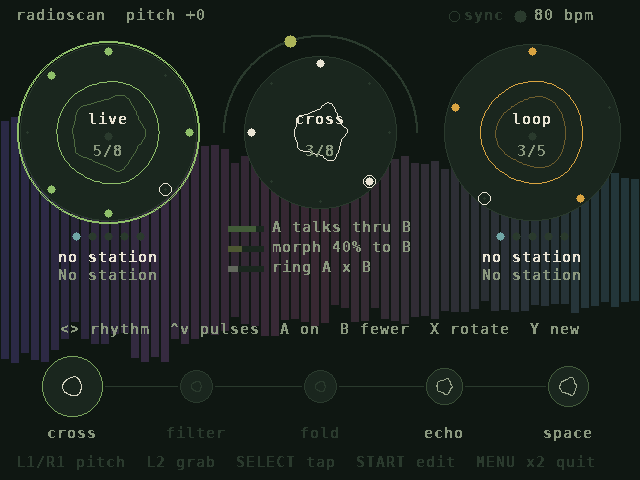
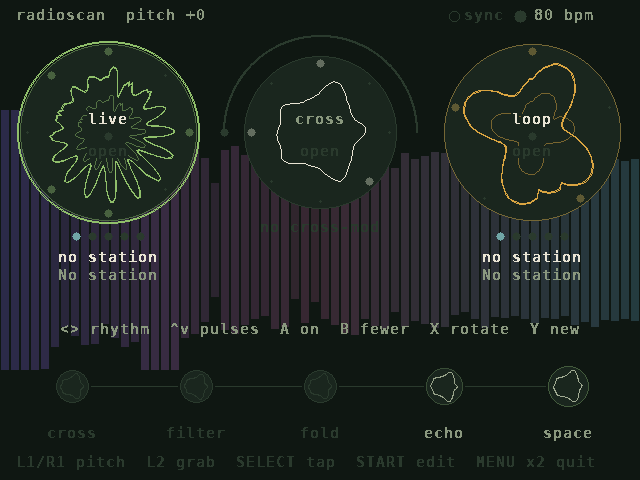
Voice circles show their waveforms as polar oscilloscopes
Claude-Session: https://claude.ai/code/session_01BCwtH7uky1EgFAH9tziGgi

diff --git a/src/main.c b/src/main.c
@@ -1006,8 +1006,60 @@ static void seq_label(int q, char *t, int n)
     else snprintf(t, n, "open");
 }
 
-/* a voice: faint bloom of the raw broadcast inside, bright bloom of the voice as it sounds outside,
- * and its rhythm around the rim */
+/* centred text with a dark outline, so it reads over a busy waveform */
+static void text_halo(int cx, int y, const char *s, Uint32 col)
+{
+    for (int dy = -2; dy <= 2; dy++)
+        for (int dx = -2; dx <= 2; dx++)
+            if (dx || dy) text_center(cx + dx, y + dy, s, C_PANEL, 0);
+    text_center(cx, y, s, col, 0);
+}
+
+/* A waveform wrapped around a circle, like a polar oscilloscope: the line swings out and in with the signal.
+ * It is triggered on a rising zero crossing so it holds still on a steady tone, and scaled to its own recent
+ * peak so even a quiet station swings wide. *env keeps that peak between frames. */
+static void draw_polar_wave(int cx, int cy, float base, float swing, int tap, Uint32 col, int thick, float *env)
+{
+    enum { WN = 2048, SPAN = 1024, PTS = 180 };
+    static float buf[WN];
+    synth_tap_read(syn, tap, buf, WN);
+    int start = WN - SPAN;
+    for (int i = WN - SPAN - 1; i > WN - SPAN - 900; i--) /* the latest rising zero crossing with room after it */
+        if (buf[i - 1] < 0 && buf[i] >= 0) { start = i; break; }
+    float pk = 0;
+    for (int i = 0; i < SPAN; i++) pk = fmaxf(pk, fabsf(buf[start + i]));
+    *env = pk > *env ? pk : *env * 0.93f;
+    float g = 1.0f / fmaxf(*env, 0.01f);
+    if (pk < 0.0005f) g = 0; /* silence: a still circle */
+    float v[PTS];
+    for (int k = 0; k < PTS; k++) { /* average each slice so the line is smooth, not aliased */
+        int a = start + k * SPAN / PTS, b = start + (k + 1) * SPAN / PTS;
+        float sum = 0, mx = 0;
+        for (int i = a; i < b; i++) { sum += buf[i]; if (fabsf(buf[i]) > fabsf(mx)) mx = buf[i]; }
+        v[k] = 0.5f * (sum / (b - a)) + 0.5f * mx; /* keep some of the peaks: it should look lively */
+        v[k] *= g;
+        v[k] = v[k] > 1 ? 1 : v[k] < -1 ? -1 : v[k];
+    }
+    for (int k = 0; k < PTS / 10; k++) { /* close the loop smoothly */
+        float t = (float)k / (PTS / 10);
+        v[PTS - 1 - k] = v[PTS - 1 - k] * t + v[0] * (1 - t);
+    }
+    for (int th = 0; th < thick; th++) {
+        int x0 = 0, y0 = 0, xf = 0, yf = 0;
+        for (int k = 0; k <= PTS; k++) {
+            int x, y;
+            polar(cx, cy, base + th + swing * v[k % PTS], (float)k / PTS, &x, &y);
+            if (k) line(x0, y0, x, y, col);
+            else { xf = x; yf = y; }
+            x0 = x;
+            y0 = y;
+        }
+        (void)xf; (void)yf;
+    }
+}
+
+/* a voice: the raw broadcast's waveform faint inside, the voice as it sounds bright outside, and its rhythm
+ * around the rim */
 static void draw_voice(int o, int cx, int cy, int R)
 {
     Uint32 col = osc_col(o);
@@ -1016,15 +1068,17 @@ static void draw_voice(int o, int cx, int cy, int R)
     disc(cx, cy, R, C_PANEL);
     circle(cx, cy, R, mix_col(C_PANEL2, col, gate * synth_osc_level(syn, o) * 2.0f));
     if (synth_floor(syn) == o) { circle(cx, cy, R + 1, col); circle(cx, cy, R + 2, col); } /* converse: has the floor */
-    draw_bloom(cx, cy, R * 0.26f, R * 0.48f, R * 0.5f, o ? TAP_RAW_B : TAP_RAW_A, mix_col(C_PANEL, col, 0.45f), 0);
-    draw_bloom(cx, cy, R * 0.52f, R * 0.92f, R + 6, o ? TAP_B : TAP_A, col, 0);
+    static float env_raw[2], env_out[2];
+    draw_polar_wave(cx, cy, R * 0.34f, R * 0.14f, o ? TAP_RAW_B : TAP_RAW_A, mix_col(C_PANEL, col, 0.5f), 1, &env_raw[o]);
+    float open = gate > 0.02f ? 0.35f + 0.65f * gate : 0.0f; /* the swing opens and closes with the rhythm */
+    draw_polar_wave(cx, cy, R * 0.58f, R * 0.26f * open, o ? TAP_B : TAP_A, col, 2, &env_out[o]);
     draw_seq_ring(o, cx, cy, R - 7);
     static const char *const mn[] = {"live", "loop", "wave", "grain"};
-    text_center(cx, cy - 20, mn[(int)p[P_A_MODE + o * OSC_STRIDE]], C_TEXT, 0);
-    disc(cx, cy + 4, 4, state_col(o));
     char t[16];
     seq_label(o, t, sizeof t);
-    text_center(cx, cy + 12, t, (int)p[SEQ_PARAM(o, 0)] ? C_DIM : C_PANEL2, 0);
+    text_halo(cx, cy - 20, mn[(int)p[P_A_MODE + o * OSC_STRIDE]], C_TEXT);
+    disc(cx, cy + 4, 4, state_col(o));
+    text_halo(cx, cy + 12, t, (int)p[SEQ_PARAM(o, 0)] ? C_DIM : C_PANEL2);
 }
 
 /* five circles along the chain after the voices; each grows the more it changes the sound */

diff --git a/README.md b/README.md
@@ -54,8 +54,11 @@ a wavefolder, echo and space.
 
 The PLAY page is for performing: the two rhythms and the sound, live.
 
-- **Voice circles (left A, right B).** A faint inner form shows the raw broadcast; a bright outer form shows
-  the voice as it sounds. Five dots underneath show how speech-like the station is.
+- **Voice circles (left A, right B).** Each voice's waveform is wrapped around its circle like a polar
+  oscilloscope, swinging out and in with the signal: faint and small inside for the raw broadcast, bright and wide
+  outside for the voice as it sounds. Each is scaled to its own recent peak, so a quiet station still swings wide,
+  and the outer one opens and closes with the voice's rhythm. Five dots underneath show how speech-like the
+  station is.
 - **Rhythm rings.** Each voice wears its rhythm around its rim: coloured pulses, a white ring on the current step,
   and pulses/steps under the engine name. The cross rhythm circles the centre the same way.
 - **Spectrum backdrop.** A soft frequency spectrum of the overall sound behind the circles. Its colour follows
@@ -68,7 +71,7 @@ The PLAY page is for performing: the two rhythms and the sound, live.
   and, brighter, how much of it the cross rhythm and the MIX return let through right now.
 - **Five circles along the bottom:** *cross → filter → fold → echo → space*. Each grows the more it changes
   the sound.
-- **Abstract forms.** Every form is driven by the sound, not drawn as a waveform:
+- **Abstract forms.** The centre and the five stage circles are driven by the sound rather than drawn as a waveform:
   - Loudness swells the core.
   - Brightness adds petals (3, 5, 8, 13, 21) and spin.
   - Spiky sound sharpens the petals.
